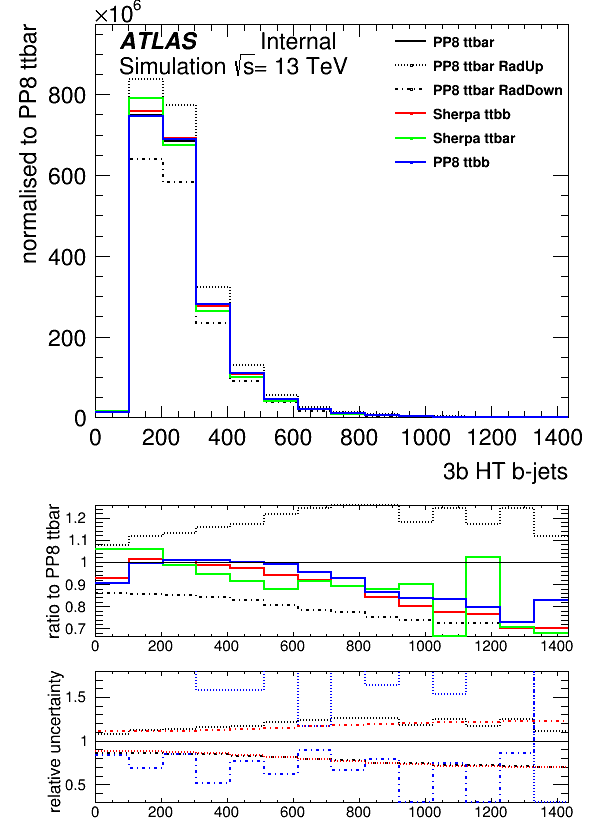
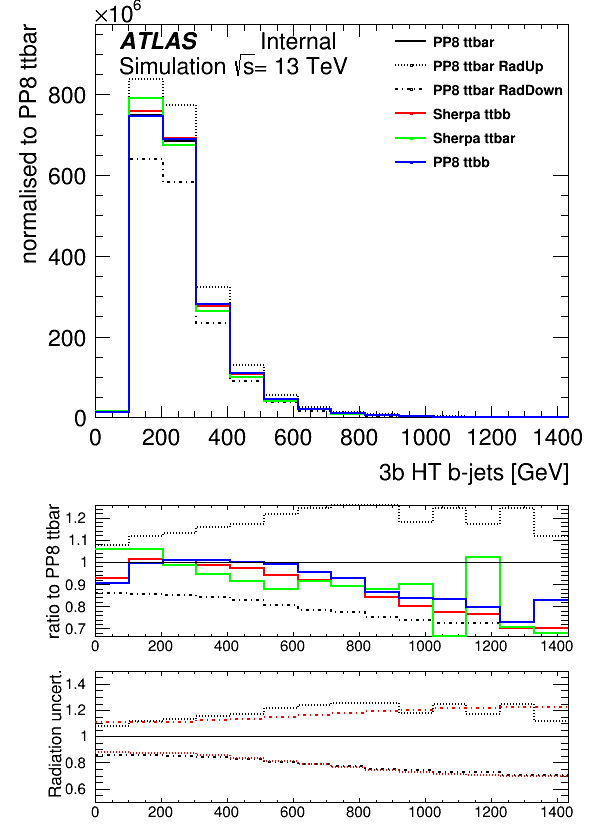
update ttbb plots, without tt+bb Rad uncertainty. Update ttbb samples table. Explicity state where hdamp is varied.

diff --git a/Tex/ttbb.tex b/Tex/ttbb.tex
@@ -4,7 +4,7 @@
 \subsection{Samples}
 Four MC generators are compared in this study, where the inclusive $\mathrm{t\bar{t}}$ PP8 sample was previously used as the nominal background estimate in the ttH analysis. It is generated with the \textsc{POWHEG-BOX v2} NLO event generator~\cite{Nason:2004rx,Frixione:2007vw,Alioli:2010xd,Campbell:2014kua} with NNPDF3.0 NLO PDF set, matched to Pythia8 and is referred to as PP8 $\mathrm{t\bar{t}}$, where the additional bb-pair is described by the parton shower. The $h_{damp}$ parameter was set to 1.5 times the top quark mass~\cite{ATL-PHYS-PUB-2016-020}, which is assumed to be 172.5 GeV. The parton shower and the hadronisation were modelled by Pythia 8.210 with the A14 set of tuned parameters. The renormalisation and factorisation scales were set to the transverse mass of the top quark.
 The intrinsic uncertainty of the nominal PP8 $\mathrm{t\bar{t}}$ sample is expressed by the simultaneous variation of the renormalisation and factorisation scales together with the PDF tune parameter. The RadiationUp variation has the renormalisation and factorisation scales decreased by a factor of two, the Var3c upward variation of the A14 parameter set and the $h_{damp}$ parameter doubled. The RadiationDown variation has the renormalisation and factorisation scales increased by a factor of two, the Var3c downward variation and the nominal value of $h_{damp}$.
-Additionally, the up and down radiation uncertainty is calculated following the CMS approach , under which the renormalisation scale, factorisation scale and PDF tune variations are each taken individually and their difference to the nominal is summed in quadrature.
+Additionally, the up and down radiation uncertainty is calculated following the CMS approach , under which the renormalisation scale, factorisation scale and PDF tune variations are each taken individually and their difference to the nominal is summed in quadrature, without changing $h_{damp}$ .
 
 The PP8 tt+bb sample also uses the POWHEG generator where $t\bar{t}b\bar{b}$ matrix elements are calculated at NLO with massive b-quarks, using the four-flavour NLO NNPDF3.0 PDF set~\cite{Jezo:2018yaf}. The parton shower and hadronisation is modelled by Pythia 8.240.
 
@@ -29,9 +29,9 @@ The configurations used for the event generation of ttbb processes.}
 Process & Generator & ME order & Parton shower & PDF & Tune  \\
 %& (alternative) & (alternative) & & \\
 \hline
-$\ttbar$  & \textsc{PowHeg v2} & \textsc{NLO} & \textsc{Pythia 8} &  5FS NNPDF3.0 NNLO & \textsc{A14}  \\
-$\ttbar+b\bar{b}$  & \textsc{PowHeg v2} & \textsc{NLO} & \textsc{Pythia 8} &  4FS NNPDF3.0 NNLO & \textsc{A14}  \\
-$\ttbar+b\bar{b}$  & \textsc{Sherpa 2.1.1} & \textsc{NLO} & \textsc{Sherpa} &  4FS NNPDF3.0 NNLO & \textsc{Sherpa} default  \\
+$\ttbar$  & \textsc{PowHeg v2} & \textsc{NLO} & \textsc{Pythia 8} &  5FS NNPDF3.0 NLO & \textsc{A14}  \\
+$\ttbar+b\bar{b}$  & \textsc{PowHeg v2} & \textsc{NLO} & \textsc{Pythia 8} &  4FS NNPDF3.0 NLO & \textsc{A14}  \\
+$\ttbar+b\bar{b}$  & \textsc{Sherpa 2.2.1} & \textsc{NLO} & \textsc{Sherpa} &  4FS NNPDF3.0 NNLO & \textsc{Sherpa} default  \\
 $\ttbar$  & \textsc{Sherpa 2.2.1} & tt+0,1p\@NLO+3p@LO & \textsc{Sherpa} &  5FS NNPDF3.0 NNLO & \textsc{Sherpa} default  \\
 \hline\hline
 \end{tabular}
@@ -51,62 +51,62 @@ In the b-jet pair invariant mass variables $\mathrm{M_{bb}^{max P_T}}$ and $\mat
 Differences are also observed in the $\mathrm{H_T}$ distributions, particularly in the 3b selection. In $\mathrm{H_T}$ of all b-jets, as in Figures~\ref{ttbb:HTbjets}, one observes a difference between PP8 $\mathrm{t\bar{t}}$ and the samples with b-jets in the ME, while in $\mathrm{H_T}$ of all light jets, shown in Figure~\ref{ttbb:HTljets} a difference between the 4 and 5 flavour schemes can be seen. The jet multiplicity, as in Figure~\ref{ttbb:Njets}, has poor agreement among the generators for large jet multiplicities.
 Lastly, differences among the samples are shown for the $\mathrm{\eta_{jet}}$ distribution, in Figure~\ref{ttbb:jeteta}.
 
-The second ratio plot shows the relative uncertainty of the radiation variations, shown as the ratio of the uncertainty to the nominal for three cases. The PP8 $\mathrm{t\bar{t}}$ sample (black) and the PP8 tt+bb sample (blue), following the above description. It can be seen that the this type of uncertainties is larger for the tt+bb case than in the $\mathrm{t\bar{t}}$ calculation.
-Also, the sum of individual variations following the CMS approach (red) on PP8 $\mathrm{t\bar{t}}$ leads to a smaller uncertainty with respect to the simultaneous variation.
+The second ratio plot shows the relative uncertainty of the radiation variations on PP8 $\mathrm{t\bar{t}}$, shown as the ratio of the uncertainty to the nominal for two cases described above, where the scale and PDF tune parameters are either varied simultaneously (black) or individually and then summed (red). $h_{damp}$ variations are only considered for the first case.
+
 
 
 \begin{figure}[!htb]
 \centering
 \includegraphics[width=0.38\textwidth]{Plots/ttbb/hisgenEvt_Dr_GenBJetsAverage_4j3t__div}
 \includegraphics[width=0.38\textwidth]{Plots/ttbb/hisgenEvt_Dr_GenBJetsAverage_4j4t__div}
-  \caption{Distribution of the average opening angle between two b-jets, for the 3b selection (left) and the 4b-jet selection (right). The first ratio plot shows the ratio of the different MC samples to PP8 $\mathrm{t\bar{t}}$, together with its radiation uncertainties. The second ratio plot shows the relative uncertainty of the radiation variations divided by the nominal, for PP8 $\mathrm{t\bar{t}}$ (black) PP8 tt+bb (blue), following the above description of simultaneous variations. The sum of individual variations following the CMS approach (red) is shown for PP8 $\mathrm{t\bar{t}}$.  \label{ttbb:avedR}}
+  \caption{Distribution of the average opening angle between two b-jets, for the 3b selection (left) and the 4b-jet selection (right). The first ratio plot shows the ratio of the different MC samples to PP8 $\mathrm{t\bar{t}}$, together with its radiation uncertainties. The second ratio plot shows the relative uncertainty of the radiation variations divided by the nominal, for PP8 $\mathrm{t\bar{t}}$ following the above description of simultaneous variations (black) and as the sum of individual variations following the CMS approach (red).  \label{ttbb:avedR}}
 \end{figure}
 
 \begin{figure}[!htb]
 \centering
 \includegraphics[width=0.38\textwidth]{Plots/ttbb/hisgenEvt_Dr_MinDeltaRGenBJets_4j3t__div}
 \includegraphics[width=0.38\textwidth]{Plots/ttbb/hisgenEvt_Dr_MinDeltaRGenBJets_4j4t__div}
-  \caption{Distribution of the smallest opening angle between two b-jets, for the 3b selection (left) and the 4b-jet selection (right). The first ratio plot shows the ratio of the different MC samples to PP8 $\mathrm{t\bar{t}}$, together with its radiation uncertainties. The second ratio plot shows the relative uncertainty of the radiation variations divided by the nominal, for PP8 $\mathrm{t\bar{t}}$ (black) PP8 tt+bb (blue), following the above description of simultaneous variations. The sum of individual variations following the CMS approach (red) is shown for PP8 $\mathrm{t\bar{t}}$. \label{ttbb:mindR}}
+  \caption{Distribution of the smallest opening angle between two b-jets, for the 3b selection (left) and the 4b-jet selection (right). The first ratio plot shows the ratio of the different MC samples to PP8 $\mathrm{t\bar{t}}$, together with its radiation uncertainties. The second ratio plot shows the relative uncertainty of the radiation variations divided by the nominal, for PP8 $\mathrm{t\bar{t}}$ following the above description of simultaneous variations (black) and as the sum of individual variations following the CMS approach (red). \label{ttbb:mindR}}
 \end{figure}
 
 \begin{figure}[!htb]
 \centering
 \includegraphics[width=0.38\textwidth]{Plots/ttbb/hisgenEvt_M_HardestGenBJets_4j3t__div}
 \includegraphics[width=0.38\textwidth]{Plots/ttbb/hisgenEvt_M_HardestGenBJets_4j4t__div}
-  \caption{Distribution of the invariant mass in GeV of the two b-jets with the highest $\mathrm{P_T}$ sum, for the 3b selection (left) and the 4b-jet selection (right). The first ratio plot shows the ratio of the different MC samples to PP8 $\mathrm{t\bar{t}}$, together with its radiation uncertainties. The second ratio plot shows the relative uncertainty of the radiation variations divided by the nominal, for PP8 $\mathrm{t\bar{t}}$ (black) PP8 tt+bb (blue), following the above description of simultaneous variations. The sum of individual variations following the CMS approach (red) is shown for PP8 $\mathrm{t\bar{t}}$. \label{ttbb:MbbmaxPT}}
+  \caption{Distribution of the invariant mass in GeV of the two b-jets with the highest $\mathrm{P_T}$ sum, for the 3b selection (left) and the 4b-jet selection (right). The first ratio plot shows the ratio of the different MC samples to PP8 $\mathrm{t\bar{t}}$, together with its radiation uncertainties. The second ratio plot shows the relative uncertainty of the radiation variations divided by the nominal, for PP8 $\mathrm{t\bar{t}}$ following the above description of simultaneous variations (black) and as the sum of individual variations following the CMS approach (red). \label{ttbb:MbbmaxPT}}
 \end{figure}
 
 \begin{figure}[!htb]
 \centering
 \includegraphics[width=0.38\textwidth]{Plots/ttbb/hisgenEvt_M_MinDeltaRGenBJets_4j3t__div}
 \includegraphics[width=0.38\textwidth]{Plots/ttbb/hisgenEvt_M_MinDeltaRGenBJets_4j4t__div}
-  \caption{Distribution of the invariant mass in GeV of the two b-jets with the smallest opening angle, for the 3b selection (left) and the 4b-jet selection (right). The first ratio plot shows the ratio of the different MC samples to PP8 $\mathrm{t\bar{t}}$, together with its radiation uncertainties. The second ratio plot shows the relative uncertainty of the radiation variations divided by the nominal, for PP8 $\mathrm{t\bar{t}}$ (black) PP8 tt+bb (blue), following the above description of simultaneous variations. The sum of individual variations following the CMS approach (red) is shown for PP8 $\mathrm{t\bar{t}}$. \label{ttbb:MbbminDR}}
+  \caption{Distribution of the invariant mass in GeV of the two b-jets with the smallest opening angle, for the 3b selection (left) and the 4b-jet selection (right). The first ratio plot shows the ratio of the different MC samples to PP8 $\mathrm{t\bar{t}}$, together with its radiation uncertainties. The second ratio plot shows the relative uncertainty of the radiation variations divided by the nominal, for PP8 $\mathrm{t\bar{t}}$ following the above description of simultaneous variations (black) and as the sum of individual variations following the CMS approach (red). \label{ttbb:MbbminDR}}
 \end{figure}
 
 \begin{figure}[!htb]
 \centering
 \includegraphics[width=0.38\textwidth]{Plots/ttbb/hisgenHTbjets_4j3t__div}
 \includegraphics[width=0.38\textwidth]{Plots/ttbb/hisgenHTbjets_4j4t__div}
-  \caption{Sum of b-jet transverse momenta in GeV, for the 3b selection (left) and the 4b-jet selection (right). The first ratio plot shows the ratio of the different MC samples to PP8 $\mathrm{t\bar{t}}$, together with its radiation uncertainties. The second ratio plot shows the relative uncertainty of the radiation variations divided by the nominal, for PP8 $\mathrm{t\bar{t}}$ (black) PP8 tt+bb (blue), following the above description of simultaneous variations. The sum of individual variations following the CMS approach (red) is shown for PP8 $\mathrm{t\bar{t}}$. \label{ttbb:HTbjets}}
+  \caption{Sum of b-jet transverse momenta in GeV, for the 3b selection (left) and the 4b-jet selection (right). The first ratio plot shows the ratio of the different MC samples to PP8 $\mathrm{t\bar{t}}$, together with its radiation uncertainties. The second ratio plot shows the relative uncertainty of the radiation variations divided by the nominal, for PP8 $\mathrm{t\bar{t}}$ following the above description of simultaneous variations (black) and as the sum of individual variations following the CMS approach (red). \label{ttbb:HTbjets}}
 \end{figure}
 
 \begin{figure}[!htb]
 \centering
 \includegraphics[width=0.38\textwidth]{Plots/ttbb/hisgenHTljets_4j3t__div}
 \includegraphics[width=0.38\textwidth]{Plots/ttbb/hisgenHTljets_4j4t__div}
-  \caption{Sum of non-b-jet transverse momenta in GeV, for the 3b selection (left) and the 4b-jet selection (right). The first ratio plot shows the ratio of the different MC samples to PP8 $\mathrm{t\bar{t}}$, together with its radiation uncertainties. The second ratio plot shows the relative uncertainty of the radiation variations divided by the nominal, for PP8 $\mathrm{t\bar{t}}$ (black) PP8 tt+bb (blue), following the above description of simultaneous variations. The sum of individual variations following the CMS approach (red) is shown for PP8 $\mathrm{t\bar{t}}$. \label{ttbb:HTljets}}
+  \caption{Sum of non-b-jet transverse momenta in GeV, for the 3b selection (left) and the 4b-jet selection (right). The first ratio plot shows the ratio of the different MC samples to PP8 $\mathrm{t\bar{t}}$, together with its radiation uncertainties. The second ratio plot shows the relative uncertainty of the radiation variations divided by the nominal, for PP8 $\mathrm{t\bar{t}}$ following the above description of simultaneous variations (black) and as the sum of individual variations following the CMS approach (red). \label{ttbb:HTljets}}
 \end{figure}
 
 \begin{figure}[!htb]
 \centering
 \includegraphics[width=0.38\textwidth]{Plots/ttbb/hisgenNjets_4j3t__div}
 \includegraphics[width=0.38\textwidth]{Plots/ttbb/hisgenNjets_4j4t__div}
-  \caption{Jet multiplicity, for the 3b selection (left) and the 4b-jet selection (right). The first ratio plot shows the ratio of the different MC samples to PP8 $\mathrm{t\bar{t}}$, together with its radiation uncertainties. The second ratio plot shows the relative uncertainty of the radiation variations divided by the nominal, for PP8 $\mathrm{t\bar{t}}$ (black) PP8 tt+bb (blue), following the above description of simultaneous variations. The sum of individual variations following the CMS approach (red) is shown for PP8 $\mathrm{t\bar{t}}$. \label{ttbb:Njets}}
+  \caption{Jet multiplicity, for the 3b selection (left) and the 4b-jet selection (right). The first ratio plot shows the ratio of the different MC samples to PP8 $\mathrm{t\bar{t}}$, together with its radiation uncertainties. The second ratio plot shows the relative uncertainty of the radiation variations divided by the nominal, for PP8 $\mathrm{t\bar{t}}$ following the above description of simultaneous variations (black) and as the sum of individual variations following the CMS approach (red). \label{ttbb:Njets}}
 \end{figure}
 
 \begin{figure}[!htb]
 \centering
 \includegraphics[width=0.38\textwidth]{Plots/ttbb/his3b_jeteta__div}
 \includegraphics[width=0.38\textwidth]{Plots/ttbb/his4b_jeteta__div}
-  \caption{Jet pseudorapidity, for the 3b selection (left) and the 4b-jet selection (right). The first ratio plot shows the ratio of the different MC samples to PP8 $\mathrm{t\bar{t}}$, together with its radiation uncertainties. The second ratio plot shows the relative uncertainty of the radiation variations divided by the nominal, for PP8 $\mathrm{t\bar{t}}$ (black) PP8 tt+bb (blue), following the above description of simultaneous variations. The sum of individual variations following the CMS approach (red) is shown for PP8 $\mathrm{t\bar{t}}$. \label{ttbb:jeteta}}
+  \caption{Jet pseudorapidity, for the 3b selection (left) and the 4b-jet selection (right). The first ratio plot shows the ratio of the different MC samples to PP8 $\mathrm{t\bar{t}}$, together with its radiation uncertainties. The second ratio plot shows the relative uncertainty of the radiation variations divided by the nominal, for PP8 $\mathrm{t\bar{t}}$ following the above description of simultaneous variations (black) and as the sum of individual variations following the CMS approach (red). \label{ttbb:jeteta}}
 \end{figure}
